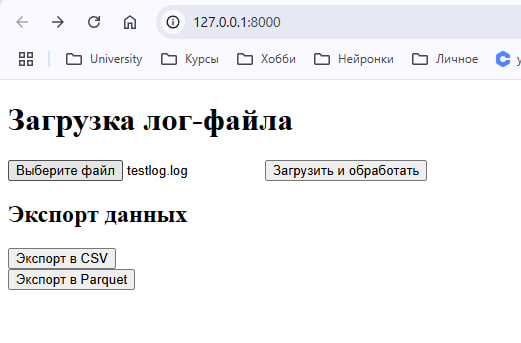
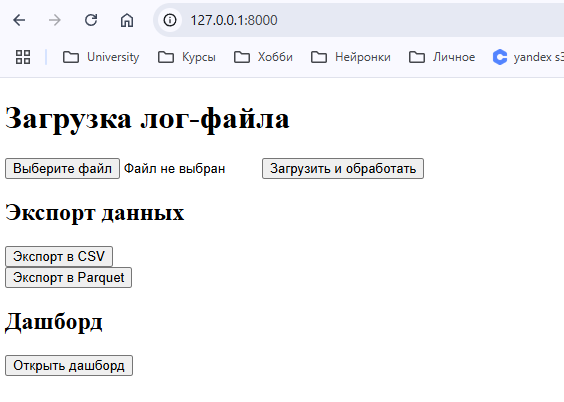
docs: updated readme with the dashboard info

diff --git a/README.md b/README.md
@@ -24,11 +24,15 @@ python -m log2db.run_api
 
 ## `html_page`
 
-Модуль отвечает за веб-интерфейс загрузки логов в БД, и экспорт логов из базы в `csv` и `parquet`
+Модуль отвечает за веб-интерфейс загрузки логов в БД, и экспорт логов из базы в `csv` и `parquet`, а также позволяет перейти на страницу дашборда
 
 ![Web Page Screen](img/web_page.png)
 
 После запуска `run_api.py` переходи на страницу **`http://127.0.0.1:8000/`**, выбери файл и обработай его, или экспортируй логи из базы
+
+## Дашборд
+
+Дашборд строим на `dash`, за него отвечает модуль `rendering.dashboard`. Чтобы обновить дашборд, меняй функции в модуле
 
 ## ⚙ Подключение к базе
 
